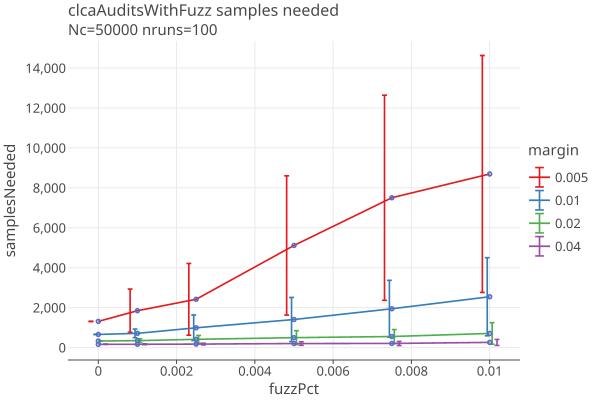
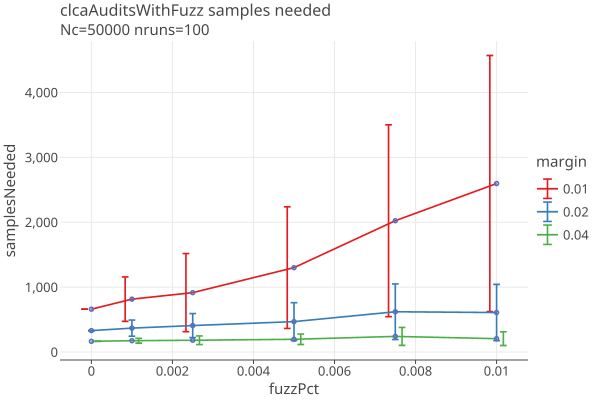
update readme, pass 5.

diff --git a/docs/plots2/samplesNeeded/clcaAuditsWithFuzz/clcaAuditsWithFuzzLinear.html b/docs/plots2/samplesNeeded/clcaAuditsWithFuzz/clcaAuditsWithFuzzLinear.html
@@ -5,7 +5,7 @@
        &lt;script type=&quot;text/javascript&quot; data-lets-plot-script=&quot;library&quot; src=&quot;https://cdn.jsdelivr.net/gh/JetBrains/lets-plot@v4.7.3/js-package/distr/lets-plot.min.js&quot;>&lt;/script>
    &lt;/head>
    &lt;body>
-          &lt;div id=&quot;wACVIv&quot;>&lt;/div>
+          &lt;div id=&quot;zHWzbJ&quot;>&lt;/div>
    &lt;script type=&quot;text/javascript&quot; data-lets-plot-script=&quot;plot&quot;>
    
    (function() {
@@ -30,7 +30,7 @@
        };
    }
    
-   const containerDiv = document.getElementById(&quot;wACVIv&quot;);
+   const containerDiv = document.getElementById(&quot;zHWzbJ&quot;);
    let fig = null;
    
    function renderPlot() {
@@ -80,8 +80,8 @@
 &quot;fuzzPct&quot;:[0.0,0.001,0.0025,0.005,0.0075,0.01,0.0,0.001,0.0025,0.005,0.0075,0.01,0.0,0.001,0.0025,0.005,0.0075,0.01],
 &quot;&amp;merged_groups&quot;:[&quot;0.01&quot;,&quot;0.01&quot;,&quot;0.01&quot;,&quot;0.01&quot;,&quot;0.01&quot;,&quot;0.01&quot;,&quot;0.02&quot;,&quot;0.02&quot;,&quot;0.02&quot;,&quot;0.02&quot;,&quot;0.02&quot;,&quot;0.02&quot;,&quot;0.04&quot;,&quot;0.04&quot;,&quot;0.04&quot;,&quot;0.04&quot;,&quot;0.04&quot;,&quot;0.04&quot;],
 &quot;margin&quot;:[&quot;0.01&quot;,&quot;0.01&quot;,&quot;0.01&quot;,&quot;0.01&quot;,&quot;0.01&quot;,&quot;0.01&quot;,&quot;0.02&quot;,&quot;0.02&quot;,&quot;0.02&quot;,&quot;0.02&quot;,&quot;0.02&quot;,&quot;0.02&quot;,&quot;0.04&quot;,&quot;0.04&quot;,&quot;0.04&quot;,&quot;0.04&quot;,&quot;0.04&quot;,&quot;0.04&quot;],
-&quot;ylowers&quot;:[660.0,462.26021884467707,397.2238709443751,339.61381135311603,441.2842359246222,360.1344671611439,330.0,247.6643829158489,194.1375102224597,197.10452344287017,155.93041312671642,194.00452805565112,165.0,140.05909586705397,126.5771575571988,119.02203295015696,96.48875895885799,94.2589300979383],
-&quot;yuppers&quot;:[660.0,1096.499781155323,1688.636129055626,2432.6461886468837,3093.2157640753776,4329.205532838854,330.0,510.635617084151,620.2824897775401,777.6754765571297,1019.8295868732829,1275.435471944349,165.0,198.900904132946,239.86284244280114,264.817967049843,347.81124104114207,389.8010699020616]
+&quot;ylowers&quot;:[660.0,472.1921714646366,312.7809543906842,363.03620336569895,545.3016402877063,623.2548970245805,330.0,243.52450112229724,222.83520298030632,176.36890602738248,191.98702623952033,174.51702026228492,165.0,137.30681880342357,115.1918093397376,116.11303385635001,102.3643574489929,100.60928884266845],
+&quot;yuppers&quot;:[660.0,1157.4878285353639,1516.8990456093152,2237.9637966343025,3502.098359712294,4569.58510297542,330.0,493.2354988777025,592.9447970196935,760.5710939726177,1049.0529737604797,1042.5829797377155,165.0,212.09318119657652,247.4481906602622,276.46696614365004,379.035642551007,310.8307111573317]
 },
 &quot;sampling&quot;:&quot;none&quot;,
 &quot;width&quot;:0.5,
@@ -121,7 +121,7 @@
 &quot;fuzzPct&quot;:[0.0,0.001,0.0025,0.005,0.0075,0.01,0.0,0.001,0.0025,0.005,0.0075,0.01,0.0,0.001,0.0025,0.005,0.0075,0.01],
 &quot;margin&quot;:[&quot;0.01&quot;,&quot;0.01&quot;,&quot;0.01&quot;,&quot;0.01&quot;,&quot;0.01&quot;,&quot;0.01&quot;,&quot;0.02&quot;,&quot;0.02&quot;,&quot;0.02&quot;,&quot;0.02&quot;,&quot;0.02&quot;,&quot;0.02&quot;,&quot;0.04&quot;,&quot;0.04&quot;,&quot;0.04&quot;,&quot;0.04&quot;,&quot;0.04&quot;,&quot;0.04&quot;],
 &quot;&amp;merged_groups&quot;:[&quot;0.01&quot;,&quot;0.01&quot;,&quot;0.01&quot;,&quot;0.01&quot;,&quot;0.01&quot;,&quot;0.01&quot;,&quot;0.02&quot;,&quot;0.02&quot;,&quot;0.02&quot;,&quot;0.02&quot;,&quot;0.02&quot;,&quot;0.02&quot;,&quot;0.04&quot;,&quot;0.04&quot;,&quot;0.04&quot;,&quot;0.04&quot;,&quot;0.04&quot;,&quot;0.04&quot;],
-&quot;samplesNeeded&quot;:[660.0,779.3800000000001,1042.9300000000005,1386.1299999999999,1767.25,2344.669999999999,330.0,379.15,407.2099999999999,487.39,587.8799999999997,734.72,165.0,169.48,183.21999999999997,191.92,222.15000000000003,242.02999999999994]
+&quot;samplesNeeded&quot;:[660.0,814.8400000000003,914.8399999999997,1300.5000000000007,2023.7,2596.4200000000005,330.0,368.3799999999999,407.88999999999993,468.47000000000014,620.52,608.5500000000002,165.0,174.70000000000005,181.3199999999999,196.29000000000002,240.69999999999996,205.72000000000006]
 },
 &quot;sampling&quot;:&quot;none&quot;,
 &quot;inherit_aes&quot;:false,
@@ -159,7 +159,7 @@
 &quot;fuzzPct&quot;:[0.0,0.001,0.0025,0.005,0.0075,0.01,0.0,0.001,0.0025,0.005,0.0075,0.01,0.0,0.001,0.0025,0.005,0.0075,0.01],
 &quot;margin&quot;:[&quot;0.01&quot;,&quot;0.01&quot;,&quot;0.01&quot;,&quot;0.01&quot;,&quot;0.01&quot;,&quot;0.01&quot;,&quot;0.02&quot;,&quot;0.02&quot;,&quot;0.02&quot;,&quot;0.02&quot;,&quot;0.02&quot;,&quot;0.02&quot;,&quot;0.04&quot;,&quot;0.04&quot;,&quot;0.04&quot;,&quot;0.04&quot;,&quot;0.04&quot;,&quot;0.04&quot;],
 &quot;&amp;merged_groups&quot;:[&quot;0.01&quot;,&quot;0.01&quot;,&quot;0.01&quot;,&quot;0.01&quot;,&quot;0.01&quot;,&quot;0.01&quot;,&quot;0.02&quot;,&quot;0.02&quot;,&quot;0.02&quot;,&quot;0.02&quot;,&quot;0.02&quot;,&quot;0.02&quot;,&quot;0.04&quot;,&quot;0.04&quot;,&quot;0.04&quot;,&quot;0.04&quot;,&quot;0.04&quot;,&quot;0.04&quot;],
-&quot;samplesNeeded&quot;:[660.0,779.3800000000001,1042.9300000000005,1386.1299999999999,1767.25,2344.669999999999,330.0,379.15,407.2099999999999,487.39,587.8799999999997,734.72,165.0,169.48,183.21999999999997,191.92,222.15000000000003,242.02999999999994]
+&quot;samplesNeeded&quot;:[660.0,814.8400000000003,914.8399999999997,1300.5000000000007,2023.7,2596.4200000000005,330.0,368.3799999999999,407.88999999999993,468.47000000000014,620.52,608.5500000000002,165.0,174.70000000000005,181.3199999999999,196.29000000000002,240.69999999999996,205.72000000000006]
 },
 &quot;size&quot;:1.0,
 &quot;shape&quot;:1.0,

diff --git a/plots/src/test/kotlin/org/cryptobiotic/rlauxe/workflow/AuditsWithErrors.kt b/plots/src/test/kotlin/org/cryptobiotic/rlauxe/workflow/AuditsWithErrors.kt
@@ -96,7 +96,7 @@ class AuditsWithErrors {
         val dirName = "$testdataDir/plots/samplesNeeded/$name"
 
         val N = 50000
-        val margins = listOf(.005, .01, .02, .04)
+        val margins = listOf(.01, .02, .04)
         val fuzzPcts = listOf(.00, .001, .0025, .005, .0075, .01)
 
         val stopwatch = Stopwatch()

diff --git a/README.md b/README.md
@@ -249,14 +249,13 @@ Currently we set maximum risk to 90%, and we are investigating what the optimal 
 In any setting of maximum risk, the CLCA assort value is always the same when there are no errors, and so there is no variance.
 
 For polling, the assort values vary, and the number of samples needed depends on the order the samples are drawn.
-Here we show the average and standard deviation over 100 independent trials at each reported margin, when no errors are found,
-for poth polling and CLCA:
+Here we show the average and standard deviation over 100 independent trials at each reported margin, when no errors are found:
 
 <a href="https://johnlcaron.github.io/rlauxe/docs/plots2/samplesNeeded/pollingWithStdDev/pollingWithStdDevLinear.html" rel="pollingWithStdDev">![pollingWithStdDev](docs/plots2/samplesNeeded/pollingWithStdDev/pollingWithStdDevLinear.png)</a>
 
 ## Samples needed when there are errors
 
-In these simulations, errors are created between the CVRs and the MVRs, by taking _fuzzPct_ of the ballots
+In the following simulations, errors are created between the CVRs and the MVRs, by taking _fuzzPct_ of the ballots
 and randomly changing the candidate that was voted for. When fuzzPct = 0.0, the CVRs and MVRs agree.
 When fuzzPct = 0.01, 1% of the contest's votes were randomly changed, and so on. 
 
@@ -264,15 +263,15 @@ With the margin fixed at 4%, this plot compares polling and CLCA audits and thei
 
 <a href="https://johnlcaron.github.io/rlauxe/docs/plots2/samplesNeeded/margin2WithStdDev/pollingWithStdDevLinear.html" rel="margin2WithStdDevLinear">![margin2WithStdDevLinear](docs/plots2/samplesNeeded/margin2WithStdDev/margin2WithStdDevLinear.png)</a>
 
-Here we show just CLCA audits with margins of .01, .02, and .04, over a range of fuzz errors from 0 to 1%:
+In this plot we show CLCA audits with margins of .01, .02, and .04, over a range of fuzz errors from 0 to 1%:
 
 <a href="https://johnlcaron.github.io/rlauxe/docs/plots2/samplesNeeded/clcaAuditsWithFuzz/clcaAuditsWithFuzzLinear.html" rel="clcaAuditsWithFuzz">![clcaAuditsWithFuzz](docs/plots2/samplesNeeded/clcaAuditsWithFuzz/clcaAuditsWithFuzzLinear.png)</a>
 
 * Polling audit sample sizes are all but impervious to errors.
-* CLCA as a percent of Nc is more sensitive to errors than polling, but still does much better in an absolute sense
+* CLCA as a percent of Nc is more sensitive to errors than polling, but much better in an absolute sense
 * As margins get smaller, the variance in CLCA audits increases. At .001 fuzz (1 in 1000), an audit with a margin of 1% has an
 average sample size of 780, but the 1-sigma range goes from 462 to 1096. 
-* A rule of thumb might be that if you want to audit down to 1% margin, your error rate must be less than 1/1000.
+* A rule of thumb might be that if you want to do CLCA audits down to 1% margin, your error rate must be less than 1/1000.
 
 ## Effect of Phantoms on Samples needed
 
